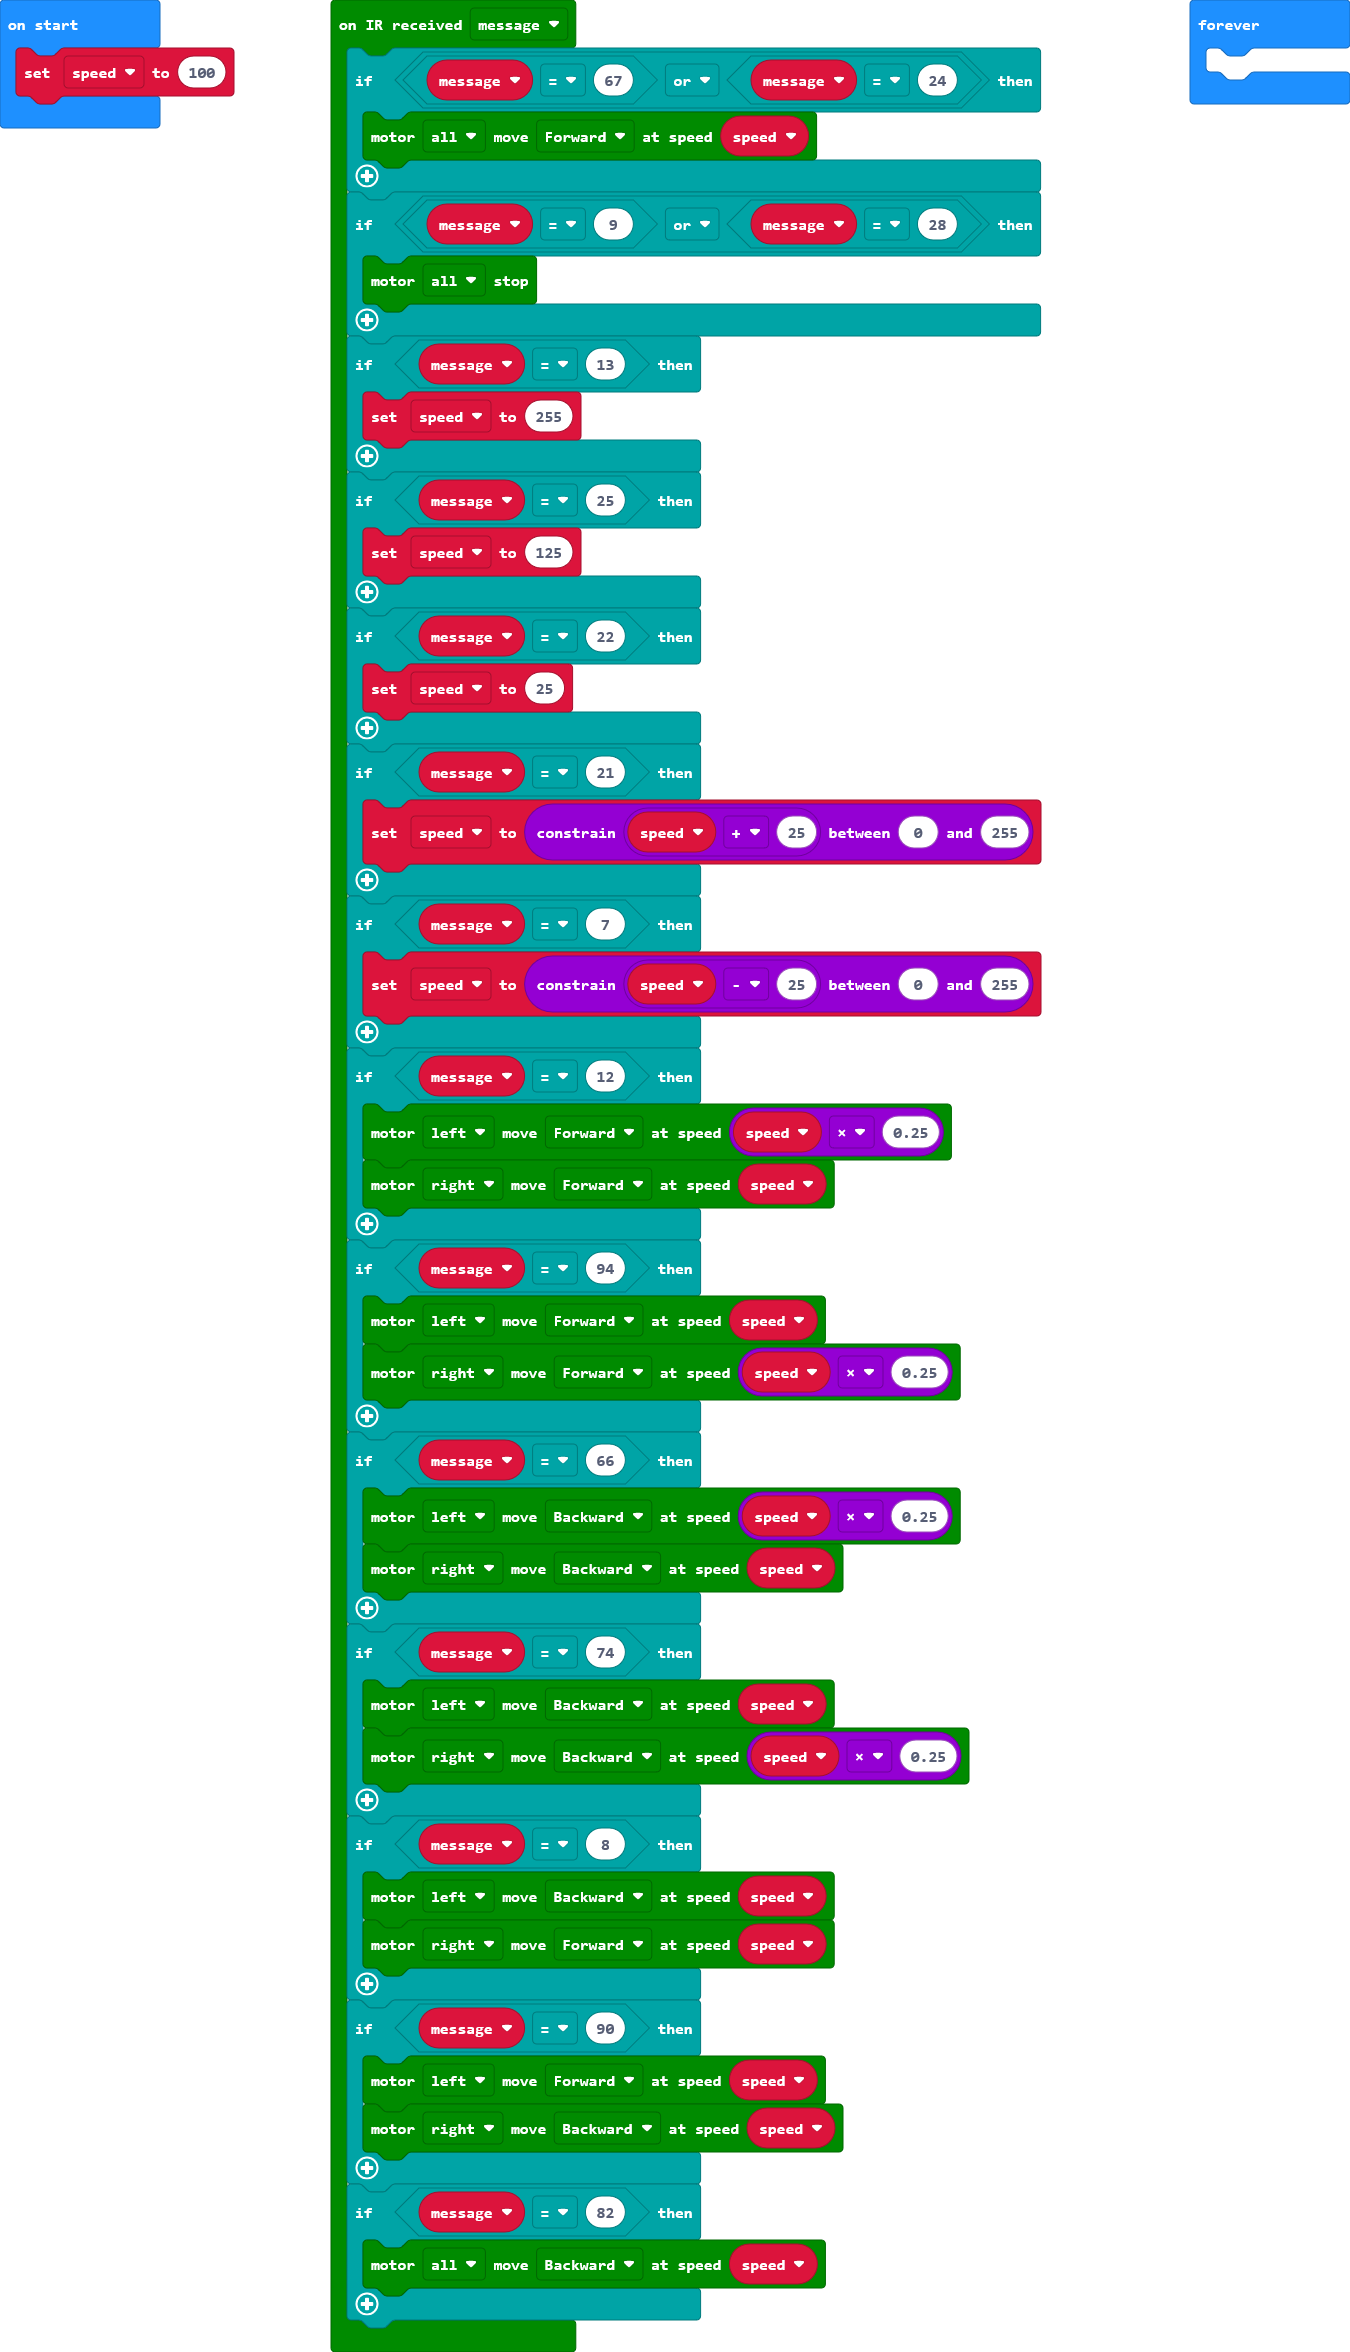
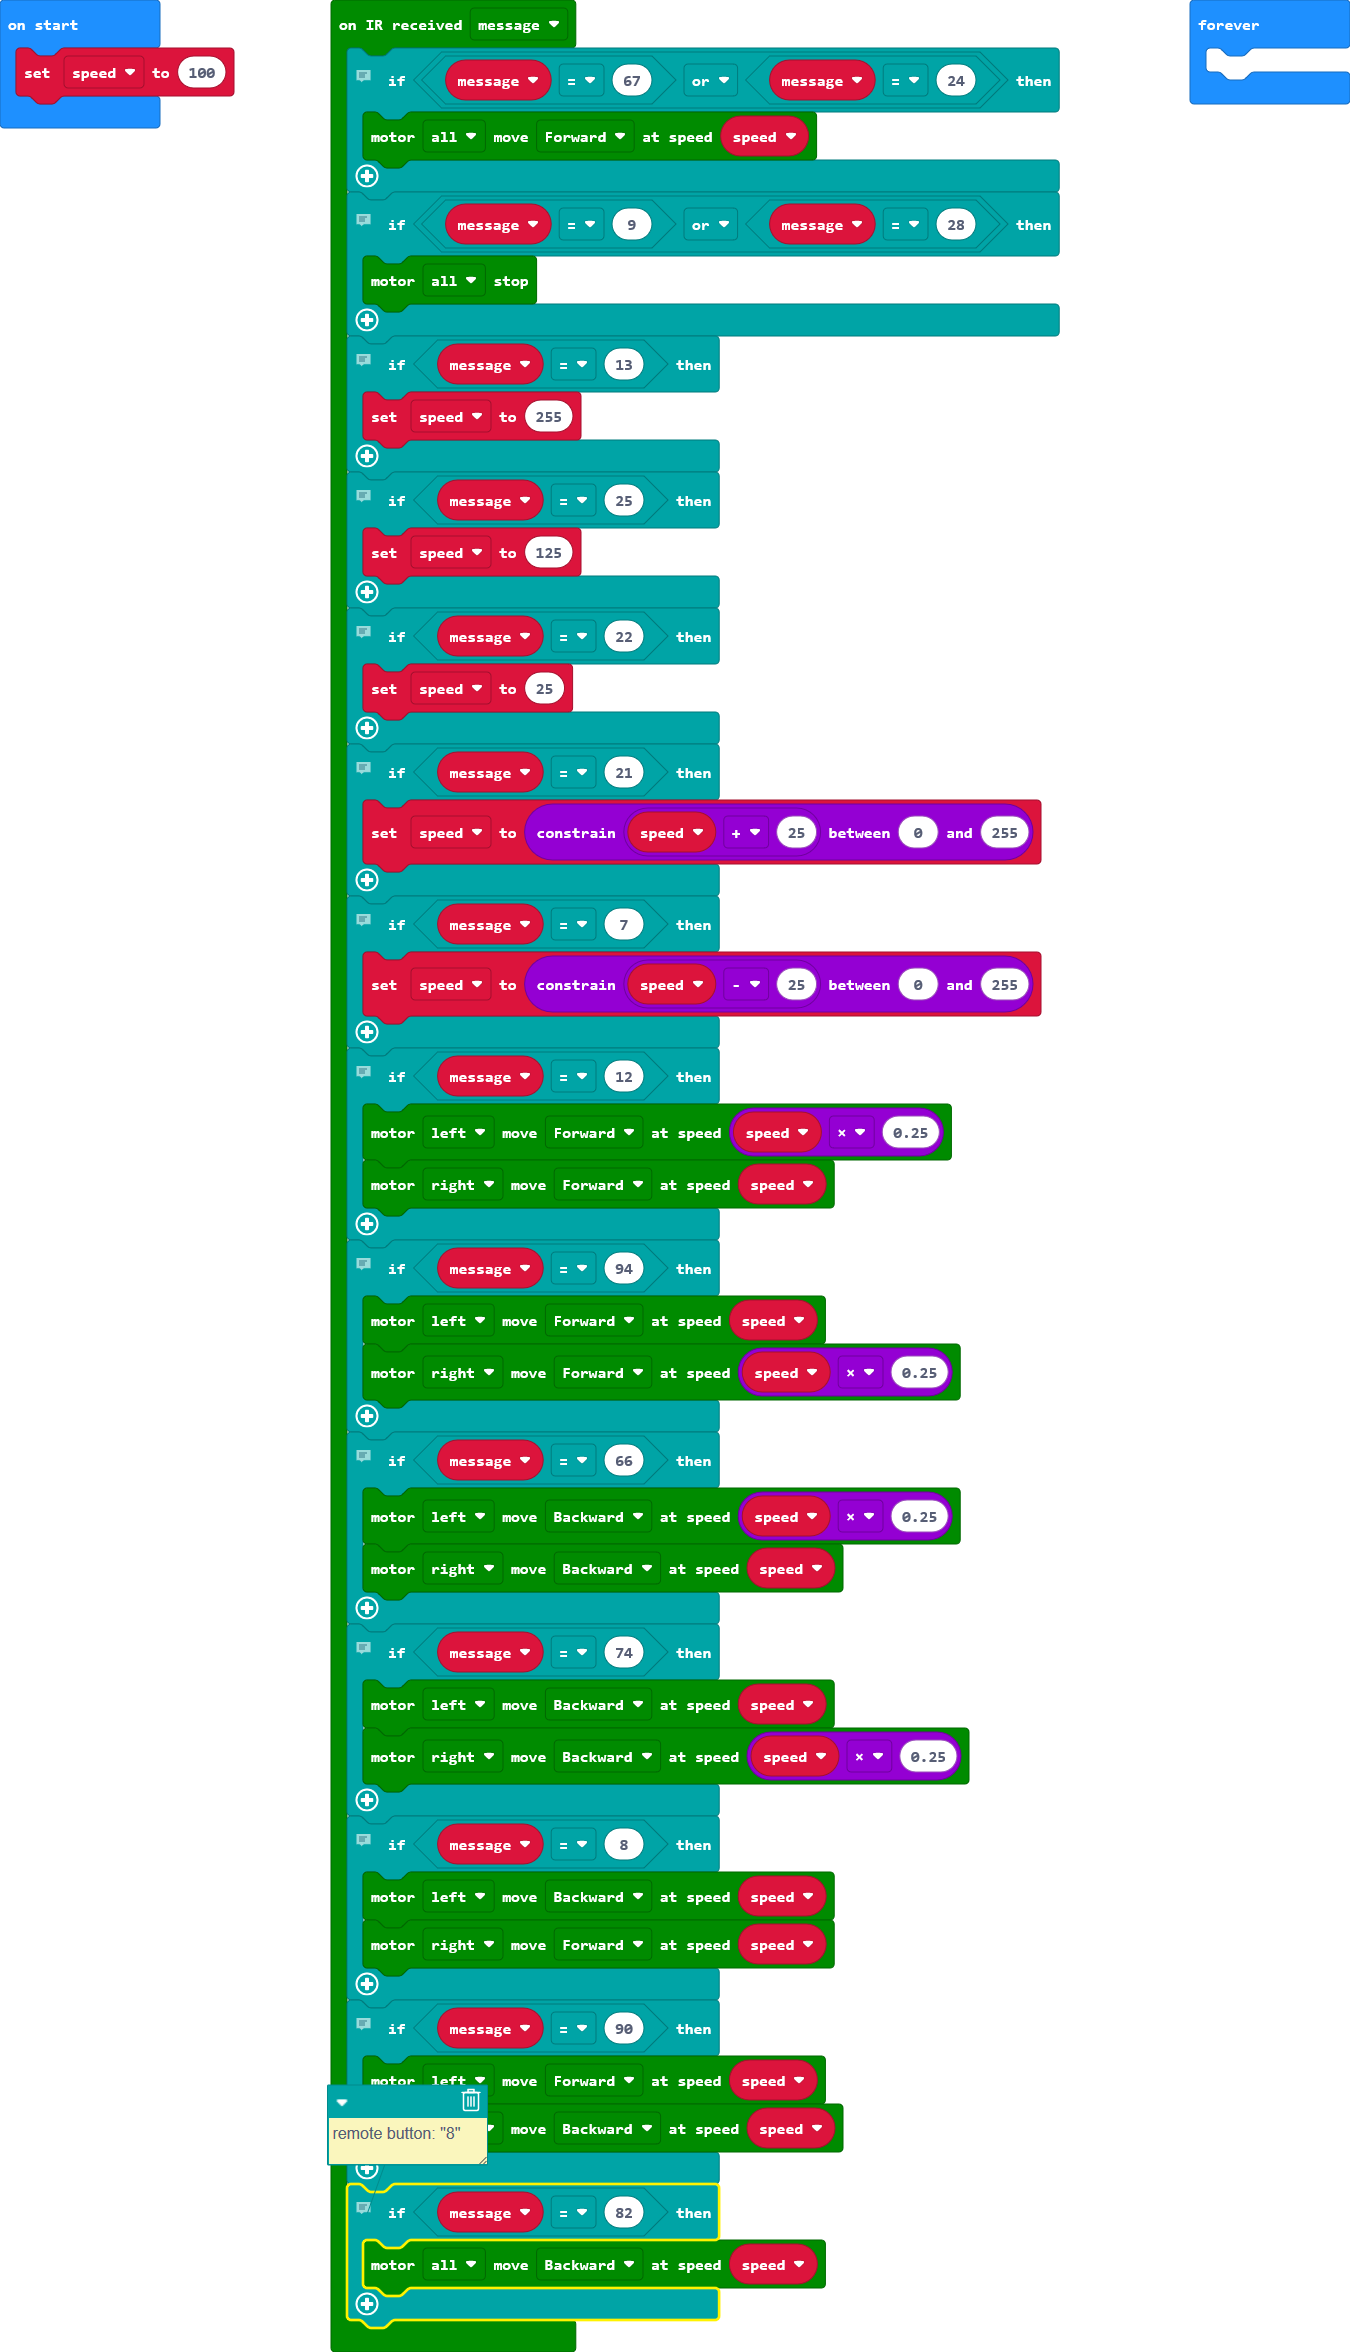
adding remote buttons comments

diff --git a/main.ts b/main.ts
@@ -1,49 +1,63 @@
 maqueen.IR_callbackUser(function (message) {
+    // remote button: "play" or "2"
     if (message == 67 || message == 24) {
         maqueen.motorRun(maqueen.Motors.All, maqueen.Dir.CW, speed)
     }
+    // remote button: "EQ" or "5"
     if (message == 9 || message == 28) {
         maqueen.motorStop(maqueen.Motors.All)
     }
+    // remote button: "200+"
     if (message == 13) {
         speed = 255
     }
+    // remote button: "100+"
     if (message == 25) {
         speed = 125
     }
+    // remote button: "0"
     if (message == 22) {
         speed = 25
     }
+    // remote button: "+"
     if (message == 21) {
         speed = Math.constrain(speed + 25, 0, 255)
     }
+    // remote button: "-"
     if (message == 7) {
         speed = Math.constrain(speed - 25, 0, 255)
     }
+    // remote button: "1"
     if (message == 12) {
         maqueen.motorRun(maqueen.Motors.M1, maqueen.Dir.CW, speed * 0.25)
         maqueen.motorRun(maqueen.Motors.M2, maqueen.Dir.CW, speed)
     }
+    // remote button: "3"
     if (message == 94) {
         maqueen.motorRun(maqueen.Motors.M1, maqueen.Dir.CW, speed)
         maqueen.motorRun(maqueen.Motors.M2, maqueen.Dir.CW, speed * 0.25)
     }
+    // remote button: "7"
     if (message == 66) {
         maqueen.motorRun(maqueen.Motors.M1, maqueen.Dir.CCW, speed * 0.25)
         maqueen.motorRun(maqueen.Motors.M2, maqueen.Dir.CCW, speed)
     }
+    // remote button: "9"
     if (message == 74) {
         maqueen.motorRun(maqueen.Motors.M1, maqueen.Dir.CCW, speed)
         maqueen.motorRun(maqueen.Motors.M2, maqueen.Dir.CCW, speed * 0.25)
     }
+    // remote button: "4"
     if (message == 8) {
         maqueen.motorRun(maqueen.Motors.M1, maqueen.Dir.CCW, speed)
         maqueen.motorRun(maqueen.Motors.M2, maqueen.Dir.CW, speed)
     }
+    // remote button: "6"
     if (message == 90) {
         maqueen.motorRun(maqueen.Motors.M1, maqueen.Dir.CW, speed)
         maqueen.motorRun(maqueen.Motors.M2, maqueen.Dir.CCW, speed)
     }
+    // remote button: "8"
     if (message == 82) {
         maqueen.motorRun(maqueen.Motors.All, maqueen.Dir.CCW, speed)
     }
